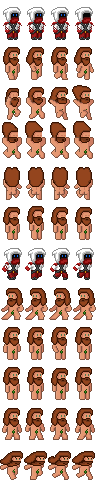
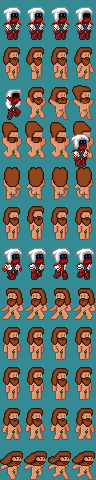
Added some new tiles and textures. Change grid to appear behind main tiles.

diff --git a/Adam/Levels/Background.cs b/Adam/Levels/Background.cs
@@ -41,11 +41,6 @@ namespace Adam
                 BackgroundId = 1;
             }
 
-            // Sets the textures to a default texture to avoid problems.
-            _backgroundTexture = AdamGame.DefaultTexture;
-            _middlegroundTexture = AdamGame.DefaultTexture;
-            _foregroundTexture = AdamGame.DefaultTexture;
-
             // Tries to set the textures to what the level settings specify. If none are found, the default are kept.
             try
             {
@@ -56,7 +51,7 @@ namespace Adam
             }
             catch (ContentLoadException)
             {
-
+                AdamGame.MessageBox.Show("Could not find background with id: " + BackgroundId);
             }
 
             // Makes three of each (except background).
@@ -99,29 +94,30 @@ namespace Adam
 
         public void Draw(SpriteBatch spriteBatch)
         {
-            if (_backgroundTexture == null) return;
+            if (_backgroundTexture != null)
+            {
 
-            spriteBatch.Draw(_backgroundTexture, new Rectangle(0, 0, AdamGame.DefaultResWidth, AdamGame.DefaultResHeight), Color.White);
+                spriteBatch.Draw(_backgroundTexture, new Rectangle(0, 0, AdamGame.DefaultResWidth, AdamGame.DefaultResHeight), Color.White);
+
+            }
 
             spriteBatch.Draw(_sun, new Rectangle(0, 0, AdamGame.DefaultResWidth, AdamGame.DefaultResHeight), Color.White);
 
-            //spriteBatch.Draw(_skyFog, new Rectangle(0, 0, Main.DefaultResWidth, Main.DefaultResHeight), Color.White * FogGradient);
-
-            for (int i = 0; i < 3; i++)
+            if (_middlegroundTexture != null)
             {
-                spriteBatch.Draw(_middlegroundTexture, new Rectangle((int)middleCoords[i].X, (int)middleCoords[i].Y, AdamGame.DefaultResWidth, AdamGame.DefaultResHeight), Color.White);
+                for (int i = 0; i < 3; i++)
+                {
+                    spriteBatch.Draw(_middlegroundTexture, new Rectangle((int)middleCoords[i].X, (int)middleCoords[i].Y, AdamGame.DefaultResWidth, AdamGame.DefaultResHeight), Color.White);
+                }
             }
 
-            //spriteBatch.Draw(_skyFog, new Rectangle(0, 0, Main.DefaultResWidth, Main.DefaultResHeight), Color.White * FogGradient);
-
-
-
-            for (int i = 0; i < 3; i++)
+            if (_foregroundTexture != null)
             {
-                spriteBatch.Draw(_foregroundTexture, new Rectangle((int)foreCoords[i].X, (int)foreCoords[i].Y, AdamGame.DefaultResWidth, AdamGame.DefaultResHeight), Color.White);
+                for (int i = 0; i < 3; i++)
+                {
+                    spriteBatch.Draw(_foregroundTexture, new Rectangle((int)foreCoords[i].X, (int)foreCoords[i].Y, AdamGame.DefaultResWidth, AdamGame.DefaultResHeight), Color.White);
+                }
             }
-
-            //spriteBatch.Draw(_skyFog, new Rectangle(0, 0, Main.DefaultResWidth, Main.DefaultResHeight), Color.White * FogGradient);
         }
     }
 

diff --git a/Adam/Levels/Tile.cs b/Adam/Levels/Tile.cs
@@ -596,6 +596,34 @@ namespace Adam
                     startingPoint = new Vector2(28, 19);
                     _positionInSpriteSheet = GetPositionInSpriteSheetOfConnectedTextures(startingPoint);
                     break;
+                case TileType.Glass:
+                    IsSolid = true;
+                    LetsLightThrough = true;
+                    _hasConnectPattern = true;
+                    startingPoint = new Vector2(32, 19);
+                    _positionInSpriteSheet = GetPositionInSpriteSheetOfConnectedTextures(startingPoint);
+                    break;
+                case TileType.SteelBeam:
+                    IsSolid = true;
+                    switch (AdamGame.Random.Next(0, 5))
+                    {
+                        case 0:
+                            _positionInSpriteSheet = new Vector2(12, 25);
+                            break;
+                        case 1:
+                            _positionInSpriteSheet = new Vector2(13, 25);
+                            break;
+                        case 2:
+                            _positionInSpriteSheet = new Vector2(14, 25);
+                            break;
+                        case 3:
+                            _positionInSpriteSheet = new Vector2(15, 25);
+                            break;
+                        case 4:
+                            _positionInSpriteSheet = new Vector2(16, 25);
+                            break;
+                    }
+                    break;
 
                 #region Wall Textures
 
@@ -1023,7 +1051,7 @@ namespace Adam
                     c.Draw(spriteBatch);
                 }
             }
-            if (AdamGame.CurrentGameMode == GameMode.Edit)
+            if (AdamGame.CurrentGameMode == GameMode.Edit && IsWall)
             {
                 spriteBatch.Draw(GameWorld.SpriteSheet, new Rectangle(_originalPosition.X, _originalPosition.Y, AdamGame.Tilesize, AdamGame.Tilesize), _gridSourceRectangle, Color.CornflowerBlue * .5f);
             }

diff --git a/Adam/Characters/Non-Playable/COM.cs b/Adam/Characters/Non-Playable/COM.cs
@@ -1,0 +1,49 @@
+using Adam.Misc;
+using Adam.Misc.Helpers;
+using Microsoft.Xna.Framework;
+
+namespace Adam.Characters.Non_Playable
+{
+    class COM : NonPlayableCharacter
+    {
+        public COM(int x, int y)
+        {
+            ObeysGravity = true;
+            IsCollidable = true;
+            ComplexAnim = new ComplexAnimation();
+            Texture = ContentHelper.LoadTexture("Characters/NPCs/charlie");
+            CollRectangle = new Rectangle(x, y, 24, 48);
+            ComplexAnim.AddAnimationData("still", new ComplexAnimData(1, Texture, new Rectangle(0, 0, 24, 40), 0, 24, 40, 500, 1, true));
+            AddAnimationToQueue("still");
+            AdamGame.Dialog.NextDialog += Dialog_NextDialog;
+        }
+
+        protected override void ShowDialog()
+        {
+            if (!AdamGame.LevelProgression.HasStartedCharlieCollectingQuest)
+            {
+                Say("ZZZ...\nHmmm? What?!\nOh hiya.", "charlie-honeyquest-1", new[] { "You seem tired.", "Who are you?", "I have to go." });
+            }
+            else
+            {
+                Say("ZZZ...\nHave you found my honey yet?", null, null);
+            }
+            base.ShowDialog();
+        }
+
+        private void Dialog_NextDialog(string code, int optionChosen)
+        {
+            switch (code)
+            {
+                case "charlie-honeyquest-1":
+                    switch (optionChosen)
+                    {
+                        case 0:
+
+                            break;
+                    }
+                    break;
+            }
+        }
+    }
+}

diff --git a/Adam/UI/Debug.cs b/Adam/UI/Debug.cs
@@ -56,10 +56,10 @@ namespace Adam
                 _chatKeyReleased = true;
             }
 
-            if (InputHelper.IsKeyDown(Keys.T) && _chatKeyReleased)
+            if (InputHelper.IsKeyDown(Keys.T) && _chatKeyReleased && !IsTyping)
             {
                 _chatKeyReleased = false;
-                IsTyping = !IsTyping;
+                IsTyping = true;
             }
         }
 
@@ -78,6 +78,8 @@ namespace Adam
                 {
                     IsTyping = false;
                     string text = chatBox.Text;
+                    if (text == null || text.Length == 0)
+                        return;
                     if (text[0] == '/')
                     {
                         RunCommand(text);
@@ -91,6 +93,24 @@ namespace Adam
         /// </summary>
         public static void RunCommand(string command)
         {
+            string[] commands = command.Split(' ');
+
+            commands[0] = commands[0].Substring(1);
+
+            switch (commands[0])
+            {
+                case "set":
+                    switch (commands[1])
+                    {
+                        case "background":
+                            int number;
+                            if (int.TryParse(commands[2], out number))
+                                GameWorld.WorldData.BackgroundId = (byte)number;
+                            break;
+                    }
+
+                    break;
+            }
 
         }
 

diff --git a/Adam/Characters/Non-Playable/NonPlayableCharacter.cs b/Adam/Characters/Non-Playable/NonPlayableCharacter.cs
@@ -1,4 +1,5 @@
-using Adam.Levels;
+using Adam.Characters.Non_Playable;
+using Adam.Levels;
 using Adam.Noobs;
 using Adam.PlayerCharacter;
 using Adam.UI;
@@ -26,6 +27,7 @@ namespace Adam.Characters
         public enum Type
         {
             None, God, Charlie, HarryPotter, Rose, Scooter, Vladimir, Will,
+            COM,
         }
 
         protected NonPlayableCharacter()
@@ -38,7 +40,7 @@ namespace Adam.Characters
             _yCoord = sourceTile.GetDrawRectangle().Y;
             _sourceTileIndex = sourceTile.TileIndex;
 
-            if (GameWorld.WorldData.MetaData[sourceTile.TileIndex] != null)
+            if (GameWorld.WorldData.MetaData.ContainsKey(sourceTile.TileIndex))
             {
                 string metadata = GameWorld.WorldData.MetaData[sourceTile.TileIndex];
                 if (metadata.StartsWith("npc:"))
@@ -88,6 +90,9 @@ namespace Adam.Characters
                     break;
                 case "will":
                     _npc = new Will(_xCoord, _yCoord);
+                    break;
+                case "COM":
+                    _npc = new COM(_xCoord, _yCoord);
                     break;
                 default:
                     AdamGame.MessageBox.Show("This NPC does not exist.");

diff --git a/Adam/Levels/GameWorld.cs b/Adam/Levels/GameWorld.cs
@@ -75,7 +75,7 @@ namespace Adam.Levels
 
             LoadingScreen.LoadingText = "Getting tiles from junkyard...";
             ConvertToTiles(TileArray, tileIDs);
-            ConvertToTiles(WallArray, wallIDs);
+            ConvertToTiles(WallArray, wallIDs, true);
 
             LoadingScreen.LoadingText = "Lighting up the world...";
 
@@ -105,10 +105,10 @@ namespace Adam.Levels
             Entities = new List<Entity>();
 
             ConvertToTiles(TileArray, WorldData.TileIDs);
-            ConvertToTiles(WallArray, WorldData.WallIDs);
+            ConvertToTiles(WallArray, WorldData.WallIDs, true);
         }
 
-        private static void ConvertToTiles(Tile[] array, TileType[] ids)
+        private static void ConvertToTiles(Tile[] array, TileType[] ids, bool isWall = false)
         {
             var width = WorldData.LevelWidth;
             var height = WorldData.LevelHeight;
@@ -123,6 +123,8 @@ namespace Adam.Levels
                 var t = array[i];
                 t.Id = (TileType)ids[i];
                 t.TileIndex = i;
+                if (isWall)
+                    t.IsWall = true;
             }
 
             foreach (var t in array)

diff --git a/Adam/Levels/LevelEditor.cs b/Adam/Levels/LevelEditor.cs
@@ -107,6 +107,9 @@ namespace Adam.Levels
         /// </summary>
         public static void Update()
         {
+            if (GameDebug.IsTyping)
+                return;
+
             GameWorld.Player.Health = GameWorld.Player.MaxHealth;
 
             SoundtrackManager.PlayLevelEditorTheme();
@@ -367,12 +370,6 @@ namespace Adam.Levels
                         continue;
                     CurrentArray[i].ResetToDefault();
                     WorldDataIds[i] = desiredId;
-                    if (OnWallMode)
-                    {
-                        CurrentArray[i].IsWall = true;
-                    }
-                    else
-                        CurrentArray[i].IsWall = false;
 
                     hasChanged = true;
                     Destroy(CurrentArray[i]);

diff --git a/Adam/UI/Level Editor/Inventory.cs b/Adam/UI/Level Editor/Inventory.cs
@@ -53,6 +53,7 @@ namespace Adam.UI.Level_Editor
             TileType.Stone, // Stone
             TileType.StoneBrick, // Stone Brick
             TileType.Sand, // Sand
+            TileType.Glass,
             TileType.Snow, // Ice
             TileType.SnowyGrass, // Snow Grass
             TileType.Mud, // Mud
@@ -61,6 +62,7 @@ namespace Adam.UI.Level_Editor
             TileType.Hellrock, // Hellrock
             TileType.GoldBrick, // Gold Brick
             TileType.Metal, // Metal
+            TileType.SteelBeam,
             TileType.Scaffolding, // Scaffolding
         };
 

diff --git a/Adam/Literals.cs b/Adam/Literals.cs
@@ -77,6 +77,8 @@
             PlayerDetector,
             Teleporter,
             Wood,
+            Glass,
+            SteelBeam,
 
             GoldBrickWall = 100,
             StoneWall,
